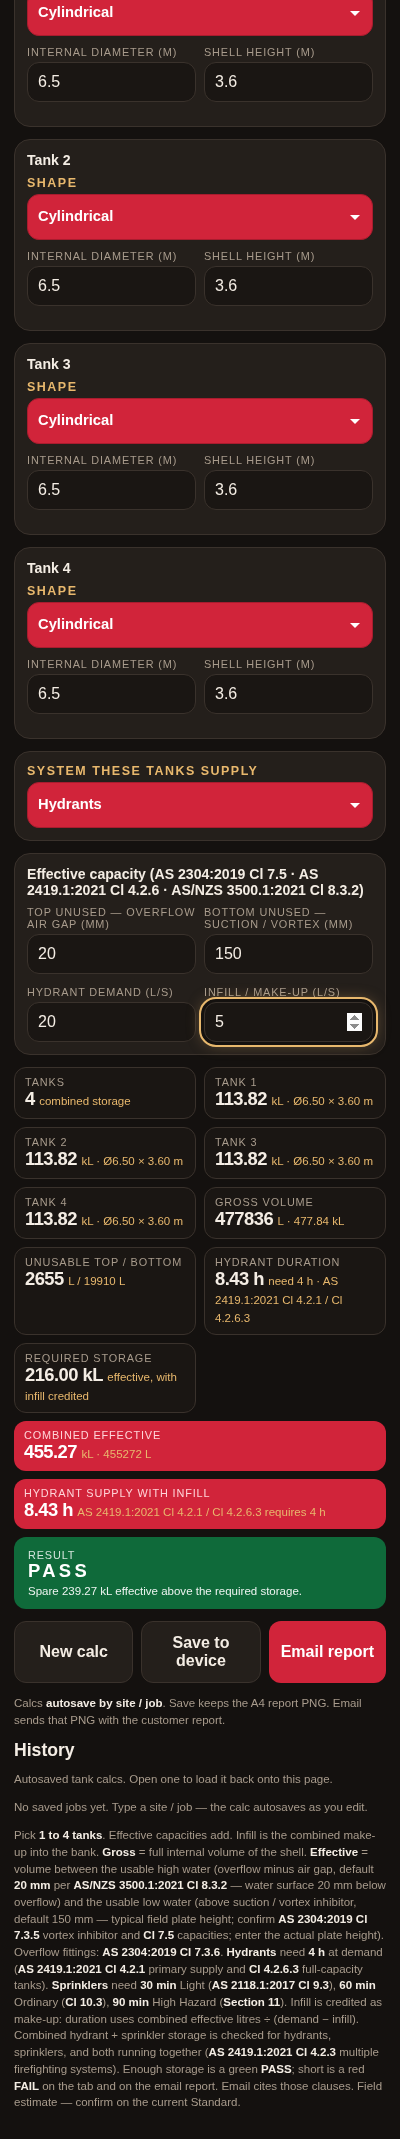
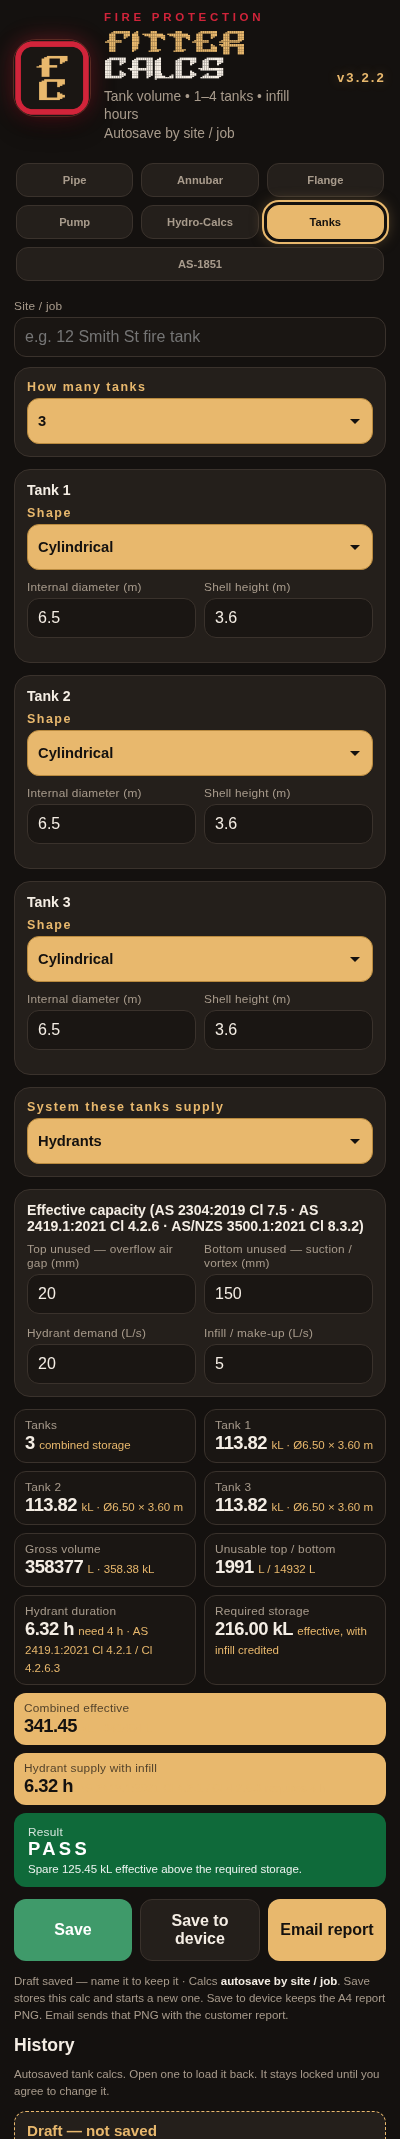
Refresh README and screenshots for 3.2.2
Screenshots were from 2.40-2.45 and showed the old red controls and the
old pre-filled defaults. Regenerated all six tabs from the current build,
plus a new shot of the neutral ENTER DIMENSIONS state.

README now documents how results and the saved-report lock actually
behave, notes that Windows is still on 2.46, and records the signing-key
rule so a future build cannot repeat the App not installed failure.

diff --git a/README.md b/README.md
@@ -15,9 +15,9 @@
   <strong>Current version: 3.2.2</strong><br>
   <a href="https://github.com/macski777/fittercalcs/releases/latest">Download FitterCalcs.apk</a>
   ·
-  <a href="https://github.com/macski777/fittercalcs/releases/latest">Windows</a>
+  <a href="https://github.com/macski777/fittercalcs/releases/tag/v2.46">Windows</a>
   ·
-  <a href="https://github.com/macski777/fittercalcs/releases/latest">Linux</a>
+  <a href="https://github.com/macski777/fittercalcs/releases/tag/v2.46">Linux</a>
 </p>
 
 ## Logo
@@ -47,6 +47,8 @@ Needs Android 7 or newer.
 3. Pin it to the taskbar or copy it to the Desktop if you want it handy.
 
 From **2.44** the Windows app checks for a newer build when it opens. Click **Update** and it downloads the new exe, replaces this one, and restarts. Copies older than 2.44 need this one download. After that they update themselves.
+
+**Windows is still on 2.46.** The 3.x builds are Android-first; a matching Windows build will be published separately. Until then the Windows app may see the Android release version and report that the update has no Windows download.
 
 Needs 64-bit Windows 10 or 11.
 
@@ -84,9 +86,9 @@ Phones on **2.17 or older** need a one-time install of 2.18 or later (USB or thi
 | **Pipe** | OD, wall, ID for AS 1074-1989 (R2018) Cl 2.3 Tables 2.1 / 2.2 / 2.3 Light / Medium / Heavy, SS 10S, SS 40S, CPVC. mm or inch. |
 | **Annubar** | Type L/min or inHg for 3/8", 20T, and 21T. Table is 0.5–30 inHg in 0.5 steps; highlights the next 0.5 inHg up. Medium-steel card K; other walls interpolate by ID. |
 | **Flange** | AS 2129-2000 Tables D/E/F/H, ANSI 150/300, PN16 — OD, PCD, bolts, holes. |
-| **Pump** | kPa vs L/s curve, autosave by job. Green **PASS** / red **FAIL** vs nominated duty. Email cites AS 2941-2013 Cl 10.3, AS 2419.1:2021 Cl 4.2.7.1.2, AS 2118.1:2017 Cl 14.9, AS 1851-2012 Table 3.4.3. |
-| **Hydro-Calcs** | Hazen-Williams friction + static rise. Green **PASS** / red **FAIL** on typical 5 m/s (AS 2118.1-1999 Cl 12.14 is 10 m/s pipe / 6 m/s valves). Autosave by site / job. **Save to device** writes the A4 PNG. Email cites AS 1074 Cl 2.3, AS 2118.1:2017 Cl 14.10, AS 2419.1:2021 Cl 4.2.7.1.2. |
-| **Tanks** | 1–4 tanks, combined effective kL. Hydrants 4 h (AS 2419.1:2021 Cl 4.2.1 / Cl 4.2.6.3). Sprinklers 30/60/90 min (AS 2118.1:2017 Cl 9.3 / Cl 10.3 / Sec 11). 20 mm overflow (AS/NZS 3500.1:2021 Cl 8.3.2). Autosave by site / job. **Save to device** writes the A4 PNG. |
+| **Pump** | kPa vs L/s curve, autosave by job. Green **PASS** / red **FAIL** vs nominated duty, neutral until a duty is entered. Email cites AS 2941-2013 Cl 10.3, AS 2419.1:2021 Cl 4.2.7.1.2, AS 2118.1:2017 Cl 14.9, AS 1851-2012 Table 3.4.3. |
+| **Hydro-Calcs** | Hazen-Williams friction + static rise. Green **PASS** / red **FAIL** on typical 5 m/s (AS 2118.1-1999 Cl 12.14 is 10 m/s pipe / 6 m/s valves), neutral until flow and length are entered. Autosave by site / job. **Save to device** writes the A4 PNG. Email cites AS 1074 Cl 2.3, AS 2118.1:2017 Cl 14.10, AS 2419.1:2021 Cl 4.2.7.1.2. |
+| **Tanks** | 1–4 tanks, combined effective kL. Hydrants 4 h (AS 2419.1:2021 Cl 4.2.1 / Cl 4.2.6.3). Sprinklers 30/60/90 min (AS 2118.1:2017 Cl 9.3 / Cl 10.3 / Sec 11). 20 mm overflow (AS/NZS 3500.1:2021 Cl 8.3.2). Stays neutral until every tank has a size and a demand is entered. Autosave by site / job. **Save to device** writes the A4 PNG. |
 | **AS-1851** | Field lookup for AS 1851-2012 routine service. System and frequency are dropdowns. Not a substitute for the Standard. |
 
 ### Pipe
@@ -123,7 +125,17 @@ Hazen-Williams friction plus static rise. Velocity within 5 m/s is green **PASS*
 
 Pick **1 to 4 tanks**, each cylindrical or rectangular. Effective volumes add. Pick hydrants, sprinklers, or both; type infill / make-up. Hydrants **4 h** (AS 2419.1:2021 Cl 4.2.1 / Cl 4.2.6.3). Sprinklers **30 / 60 / 90 min** (AS 2118.1:2017 Cl 9.3 Light, Cl 10.3 Ordinary, Section 11 High Hazard). Combined systems: AS 2419.1:2021 Cl 4.2.3. Overflow default 20 mm: AS/NZS 3500.1:2021 Cl 8.3.2. Vortex / capacities: AS 2304:2019 Cl 7.3.5 / Cl 7.5. Enough storage is green **PASS**; short is red **FAIL**. Calcs **autosave by site / job**. **Save to device** writes the A4 report PNG.
 
-<p align="center"><img src="docs/tanks.png" width="320" alt="Tanks tab — four tanks, combined storage vs hydrant duration"></p>
+<p align="center"><img src="docs/tanks.png" width="320" alt="Tanks tab — three tanks, combined storage vs hydrant duration"></p>
+
+### Results and saved reports
+
+A result only turns green **PASS** or red **FAIL** when it has real site data. With a field still empty the tab shows a grey **ENTER DIMENSIONS**, **ENTER DEMAND** or **ENTER READINGS** card instead, so a leftover default can never be mistaken for a result.
+
+<p align="center"><img src="docs/tanks-empty.png" width="320" alt="Tanks tab — result stays neutral until the tank size is entered"></p>
+
+Red is used only for **FAIL** and destructive actions; menus, tabs and buttons are gold. A partly sized tank set stays neutral too — it will not read **PASS** until every tank has a size.
+
+Saved reports open **locked**. Tapping a field to read it, or scrolling past one, changes nothing and asks nothing; the **Change this saved report?** prompt appears only when you type into a field or press a control. Work that has no site name yet is kept in **History** as a **Draft — not saved** row, with **Continue** to return to it.
 
 ### Annubar K
 
@@ -142,7 +154,7 @@ A floating **Ask Stillo** button opens a chat panel that answers questions from 
 - Click a source chip or a `[n]` citation to read the exact clause/table passage in the panel. **Open PDF at page** opens the original page; **Copy text** copies the passage.
 - On a phone, swipe right on the source reader to go back to the answer.
 - Android back (the system gesture/button or an inward edge swipe) closes the source reader first, then Ask Stillo.
-- Tap the microphone to dictate a question. Tap **Read aloud** on an answer or source, or turn on **Read answers** in the footer. The native voice bridge is in the **3.1.3 Android APK**; desktop Chrome uses browser speech. If device speech fails, the server provides a fallback voice.
+- Tap the microphone to dictate a question. Tap **Read aloud** on an answer or source, or turn on **Read answers** in the footer. The native voice bridge is in the **3.2.x Android APK**; desktop Chrome uses browser speech. If device speech fails, the server provides a fallback voice.
 - Older editions are labelled; add the current edition to the library when you have it.
 
 Index commands on the server:
@@ -170,4 +182,8 @@ Bump `versionName` / `versionCode` in `app/build.gradle` and `APP_VERSION` in th
 ./publish-update.sh "Short note for the update banner"
 ```
 
-That updates `update.json`, pushes `main`, and attaches `FitterCalcs.apk` to a GitHub release. Phones on 2.18+ and Windows on 2.44+ pick it up next time they open the app.
+That updates `update.json`, pushes `main`, and attaches `FitterCalcs.apk` to a GitHub release. Phones on 2.18+ pick it up next time they open the app.
+
+The build is signed from `keystore.jks` in the project root, pinned in `app/build.gradle`. Keep that file. If it goes missing the build stops rather than signing with a random debug key — a different certificate makes Android refuse the update as a different app, which is exactly the **App not installed** error. `keystore.jks` is gitignored and never published.
+
+Windows and Linux installers are uploaded by hand to the release; set `FITTERCALCS_WIN_URL` when running the script if you want `update.json` to advertise the Windows build.
